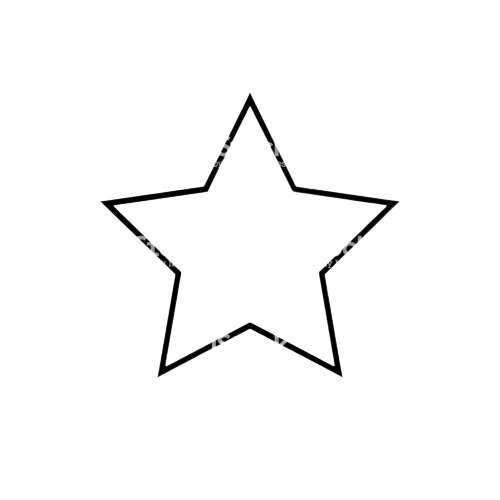
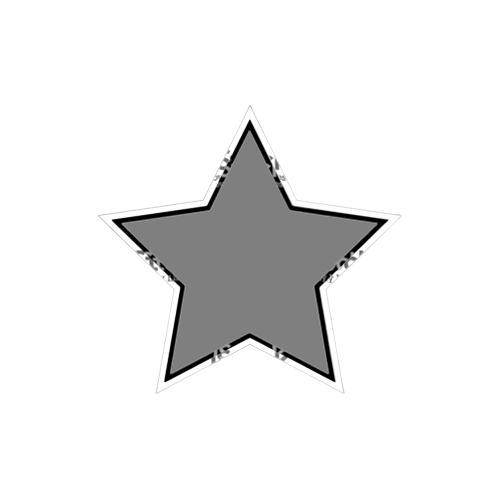
Put fav star inside of poi picture

Changed region(s): [[0.21, 0.18, 0.81, 0.78]]

diff --git a/pages/poi/poi.html b/pages/poi/poi.html
@@ -24,10 +24,11 @@
         Point Of Interest Name: <span ng-bind="poi.name" ng-click="goToPointPage(poi.name)"></span><br>
         Point Of Interest Category: <span ng-bind="poi.categoryName"></span><br>
         Point Of Interest Rank: <span ng-bind="poi.rank"></span><br>
-        <img ng-src="{{ poi.image }}" ng-click="goToPointPage(poi.name)"><br><br><br>
-        <div ng-if="isLogged">
-            <img ng-src="{{ favorites[poi.name] }}" ng-click="changeStar(poi.name)"><br><br><br><br><br>
-        </div>
+        <img ng-src="{{ poi.image }}" ng-click="goToPointPage(poi.name)">
+        <span ng-if="isLogged">
+            <img ng-src="{{ favorites[poi.name] }}" ng-click="changeStar(poi.name)"
+                 style="height: 50px; vertical-align: top; margin-left: -50px"><br><br><br><br><br>
+        </span>
     </div>
 </div>
 
@@ -37,10 +38,11 @@
             Point Of Interest Name: <span ng-bind="poi.name" ng-click="goToPointPage(poi.name)"></span><br>
             Point Of Interest Category: <span ng-bind="poi.categoryName"></span><br>
             Point Of Interest Rank: <span ng-bind="poi.rank"></span><br>
-            <img ng-src="{{ poi.image }}" ng-click="goToPointPage(poi.name)"><br><br><br>
-            <div ng-if="isLogged">
-                <img ng-src="{{ favorites[poi.name] }}" ng-click="changeStar(poi.name)"><br><br><br><br><br>
-            </div>
+            <img ng-src="{{ poi.image }}" ng-click="goToPointPage(poi.name)">
+            <span ng-if="isLogged">
+                <img ng-src="{{ favorites[poi.name] }}" ng-click="changeStar(poi.name)"
+                     style="height: 50px; vertical-align: top; margin-left: -50px"><br><br><br><br><br>
+            </span>
         </div>
 </div>
 
@@ -50,10 +52,11 @@
             Point Of Interest Name: <span ng-bind="poi.name" ng-click="goToPointPage(poi.name)"></span><br>
             Point Of Interest Category: <span ng-bind="poi.categoryName"></span><br>
             Point Of Interest Rank: <span ng-bind="poi.rank"></span><br>
-            <img ng-src="{{ poi.image }}" ng-click="goToPointPage(poi.name)"><br><br><br>
-            <div ng-if="isLogged">
-                <img ng-src="{{ favorites[poi.name] }}" ng-click="changeStar(poi.name)"><br><br><br><br><br>
-            </div>
+            <img ng-src="{{ poi.image }}" ng-click="goToPointPage(poi.name)">
+            <span ng-if="isLogged">
+                <img ng-src="{{ favorites[poi.name] }}" ng-click="changeStar(poi.name)"
+                     style="height: 50px; vertical-align: top; margin-left: -50px"><br><br><br><br><br>
+            </span>
         </div>
 </div>
 
@@ -64,10 +67,11 @@
             <div ng-if="poi.categoryName===x">
                 Point Of Interest Name: <span ng-bind="poi.name" ng-click="goToPointPage(poi.name)"></span><br>
                 Point Of Interest Rank: <span ng-bind="poi.rank"></span><br>
-                <img ng-src="{{ poi.image }}" ng-click="goToPointPage(poi.name)"><br><br><br>
-                <div ng-if="isLogged">
-                    <img ng-src="{{ favorites[poi.name] }}" ng-click="changeStar(poi.name)"><br><br><br><br><br>
-                </div>
+                <img ng-src="{{ poi.image }}" ng-click="goToPointPage(poi.name)">
+                <span ng-if="isLogged">
+                    <img ng-src="{{ favorites[poi.name] }}" ng-click="changeStar(poi.name)"
+                         style="height: 50px; vertical-align: top; margin-left: -50px"><br><br><br><br><br>
+                </span>
             </div>
         </div>
         

diff --git a/pages/favorites/favoritesPageController.js b/pages/favorites/favoritesPageController.js
@@ -2,12 +2,22 @@ angular.module("myApp")
     .controller("favoritesPageController", function ($scope, $rootScope, $http, service) {
         $scope.favorPois = [];
         $scope.updateFav = function(){
-            $http.get('http://localhost:3000/select/pointOfInterest/name,categoryName,image,rank/name IN (SELECT point_of_interest FROM favorites WHERE username=' +'\'' + service.username + '\''+')')
-           .then(function successCallback(res){
-               $scope.favorPois = res.data;
-            });
+           //  $http.get('http://localhost:3000/select/pointOfInterest/name,categoryName,image,rank/name IN (SELECT point_of_interest FROM favorites WHERE username=' +'\'' + service.username + '\''+')')
+           // .then(function successCallback(res){
+           //     $scope.favorPois = res.data;
+           //  });
+            // todo: @ODED:
+            //  here instead of getting the favorites from the DB and setting them to $scope.favorPois, get the
+            //  favorites from service.favoritesList. I think you can check which if a poi with name i is currently
+            //  marked at favorite if service.favoritesList[i] === 'images/fullStar.png'. Maybe ask Shahar to save all the
+            //  poi details into service.favoritesList instead of only the poi name, so no GET request is needed, or just
+            //  get all the pois from database and display only those in service.favoritesList.
+            //  *Getting the favorites from DB will now only happen in the login controller.
         };
         $scope.removeFromFavorites = function(poiName){
+            // todo: @ODED:
+            //  Call this function only when the user decides to save to the DB the POI list that is currently
+            //  being displayed.
             $http.delete('http://localhost:3000/delete/favorites/username=' + '\'' + service.username + '\'' + 'AND point_of_interest=' + '\'' + poiName + '\'')
            .then(function successCallback(res){
                 alert(poiName + ' was deleted from favorites.')
@@ -25,8 +35,20 @@ angular.module("myApp")
             let tmpFavorC = $scope.favorPois
             tmpFavorC.sort(function(a, b) {return parseFloat(b.categoryName) - parseFloat(a.categoryName);});
             $scope.favorPois = tmpFavorC;
-        }
+        };
 
         $scope.updateFav();
-        
+
+        $scope.changeStar=function(poiName){
+            if(service.favoritesList[poiName] === 'images/emptyStar.png'){
+                service.favoritesList[poiName]='images/fullStar.png';
+                $rootScope.favorsCount++;
+            }
+            else{
+                if(service.favoritesList[poiName] === 'images/fullStar.png'){
+                    service.favoritesList[poiName]='images/emptyStar.png';
+                    $rootScope.favorsCount--;
+                }
+            }
+        };
     });

diff --git a/pages/pointPage/pointPage.html b/pages/pointPage/pointPage.html
@@ -1,26 +1,26 @@
 <!-- css -->
 <body>
-<style>
-    img {
-        height: 200px;
-    }
-</style>
+<!--<style>-->
+<!--    img {-->
+<!--        height: 200px;-->
+<!--    }-->
+<!--</style>-->
 <h2>{{name}}</h2>
 <p ng-repeat="poi in poiInfo">
-    <img ng-src="{{ poi.image }}"><br><br><br>
-    Point Of Interest City: <span ng-bind="poi.city"></span><br>
-    Point Of Interest Rank: <span ng-bind="poi.rank"></span><br>
-    Point Of Interest Number of Viewers: <span ng-bind="poi.numOfViewers"></span><br>
-    Point Of Interest Description: <span ng-bind="poi.description"></span><br>
+    <img ng-src="{{ poi.image }}" style="height: 200px">
+<span ng-if="isLogged">
+    <img ng-src="{{ starPic }}" ng-click="changeStar(name)" style="height: 50px; vertical-align: top; margin-left: -50px">
+</span><br><br>
+Point Of Interest City: <span ng-bind="poi.city"></span><br>
+Point Of Interest Rank: <span ng-bind="poi.rank"></span><br>
+Point Of Interest Number of Viewers: <span ng-bind="poi.numOfViewers"></span><br>
+Point Of Interest Description: <span ng-bind="poi.description"></span><br>
 <div id="notLoggedIn" style="color: #c00000">
     Please log in to write a review or save to favorites
 </div>
-<div ng-if="isLogged">
-    <img ng-src="{{ starPic }}" ng-click="changeStar(name)">
-</div>
 <br>
 <button ng-click="writeReview()" id="reviewButton">Write a review</button>
-<button ng-click="saveToFavorites()" id="saveButton">Save to favorites</button>
+<!--<button ng-click="saveToFavorites()" id="saveButton">Save to favorites</button>-->
 </p>
 <br>
 <h3>Most Recent 2 Reviews:</h3>
@@ -53,7 +53,6 @@
             <button  ng-disabled="form.$invalid" ng-click="modal.returnValue(false)">Send review</button>
             <button  ng-click="modal.returnValue(true)" style="float: right; background-color: #a04b51">Cancel</button>
         </div>
-
     </div>
 </div>
 

diff --git a/pages/login/loginController.js b/pages/login/loginController.js
@@ -23,13 +23,22 @@ angular.module("myApp")
                     document.getElementById("submitButton").style.visibility = "hidden";
                     document.getElementById("submitText").style.color = "green";
 
+                    // Changes things after log in
                     $window.sessionStorage.setItem("token",res.data);
                     $window.location.href = "#!";
                     document.getElementById('upperMessageBox').innerHTML = "Hello "+$scope.username;
                     document.getElementById('loginMenuEntry').innerHTML = "Log-out";
                     service.username = $scope.username
                     $rootScope.favorsToShow = true;
-                    $rootScope.favorsCount = 0;   
+                    $http.get('http://localhost:3000/select/pointOfInterest/name,categoryName,image,rank/name IN (SELECT point_of_interest FROM favorites WHERE username=' +'\'' + service.username + '\''+')')
+                        .then(function successCallback(res){
+                            // todo: @SHAJAR:
+                            //  Here, update the service.favoritesList you made using res.data which contains
+                            //  a list with all the names of the favorite pois saved in DB (use res.data[i].name to get
+                            //  the name of poi number i from the list).
+                            //  Also, update  $rootScope.favorsCount = [number of favorites] and not 0 like I did there
+                            $rootScope.favorsCount = 0;
+                        });
                 }
                 , function errorCallback(res) {
                     $scope.answer = "Incorrect username or password"

diff --git a/pages/favorites/favoritesPage.html b/pages/favorites/favoritesPage.html
@@ -7,9 +7,12 @@
         Point Of Interest Name: <span ng-bind="poi.name" ng-click="goToPointPage(poi.name)"></span><br>
         Point Of Interest Rank: <span ng-bind="poi.rank"></span><br>
         Point Of Interest category: <span ng-bind="poi.categoryName"></span><br>
-        <img ng-src="{{ poi.image }}" ng-click="goToPointPage(poi.name)" width="200px" height="200px"><br><br><br>  
-        <button ng-click="removeFromFavorites(poi.name)">remove {{poi.name}} from favorites</button>
-        <br>
-        <br>
+        <img ng-src="{{ poi.image }}" ng-click="goToPointPage(poi.name)" width="200px" height="200px">
+        <img ng-src="{{ service.favoritesList[poi.name] }}" ng-click="changeStar(poi.name)"
+             style="height: 50px; vertical-align: top; margin-left: -50px">
+        <br><br><br>
+<!--        <button ng-click="removeFromFavorites(poi.name)">remove {{poi.name}} from favorites</button>-->
+<!--        <br>-->
+<!--        <br>-->
     </div>
 </div>

diff --git a/pages/pointPage/pointPageController.js b/pages/pointPage/pointPageController.js
@@ -148,7 +148,7 @@ angular.module("myApp")
             });
         };
 
-        function updatePoiRank(poiName){ // todo: check this works
+        function updatePoiRank(poiName){
             $http.get("http://localhost:3000/select/reviews/score/pointOfInterest='"+poiName+"'").then(
                 function successCallback(res) {
                     var scores = res.data;
@@ -176,10 +176,6 @@ angular.module("myApp")
                 }
             );
         }
-
-        $scope.saveToFavorites=function() { // todo: save POI to favorites here
-
-        };
 
         var vm=this;
         vm.show=modalService.modalOn;							// Flag to show or hide the modal

diff --git a/app.js b/app.js
@@ -1,4 +1,4 @@
-let app = angular.module('myApp', ["ngRoute"])
+let app = angular.module('myApp', ["ngRoute"]);
 
 
 function pageLoaded(){
@@ -52,6 +52,7 @@ app.config(function($routeProvider)  {
 // custom service
 app.service('service', function() {
     this.username = "";
+    this.favoritesList = {};
 
     this.getCountries = function() {
         return [

diff --git a/API/app.js b/API/app.js
@@ -19,7 +19,6 @@ app.use((req, res, next) => {
     next();
 });
 
-// todo: check this on every private function
 app.use("/private", (req, res, next) => {
     console.log(req.headers);
     const token = req.header('x-auth-token');

diff --git a/style.css b/style.css
@@ -1,7 +1,7 @@
 body {
     font-family: Verdana, Geneva, sans-serif;
     font-size: 14px;
-    background: #b2ffca;
+    background: #c8ffdd;
 }
 
 div.menu {
